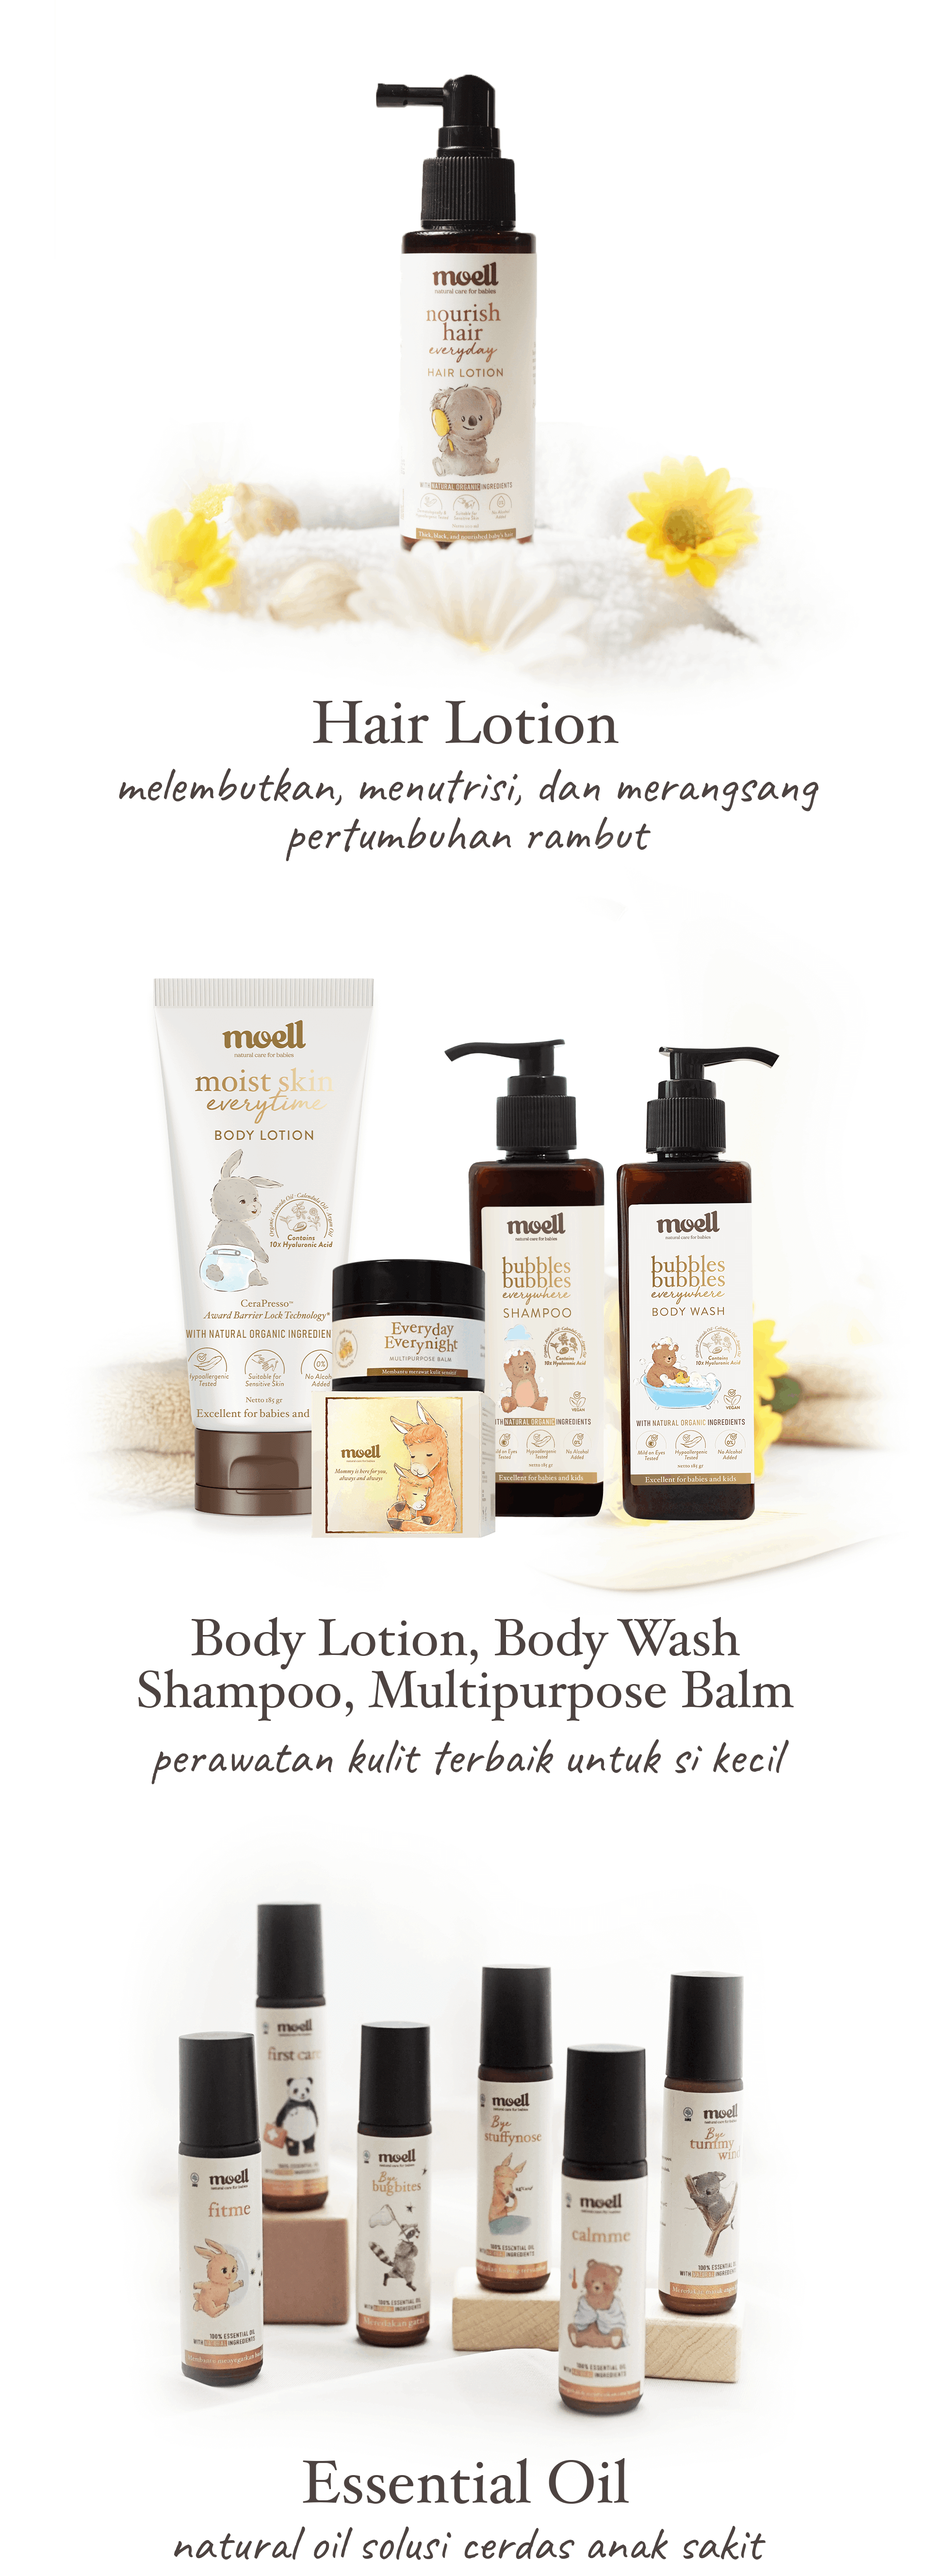
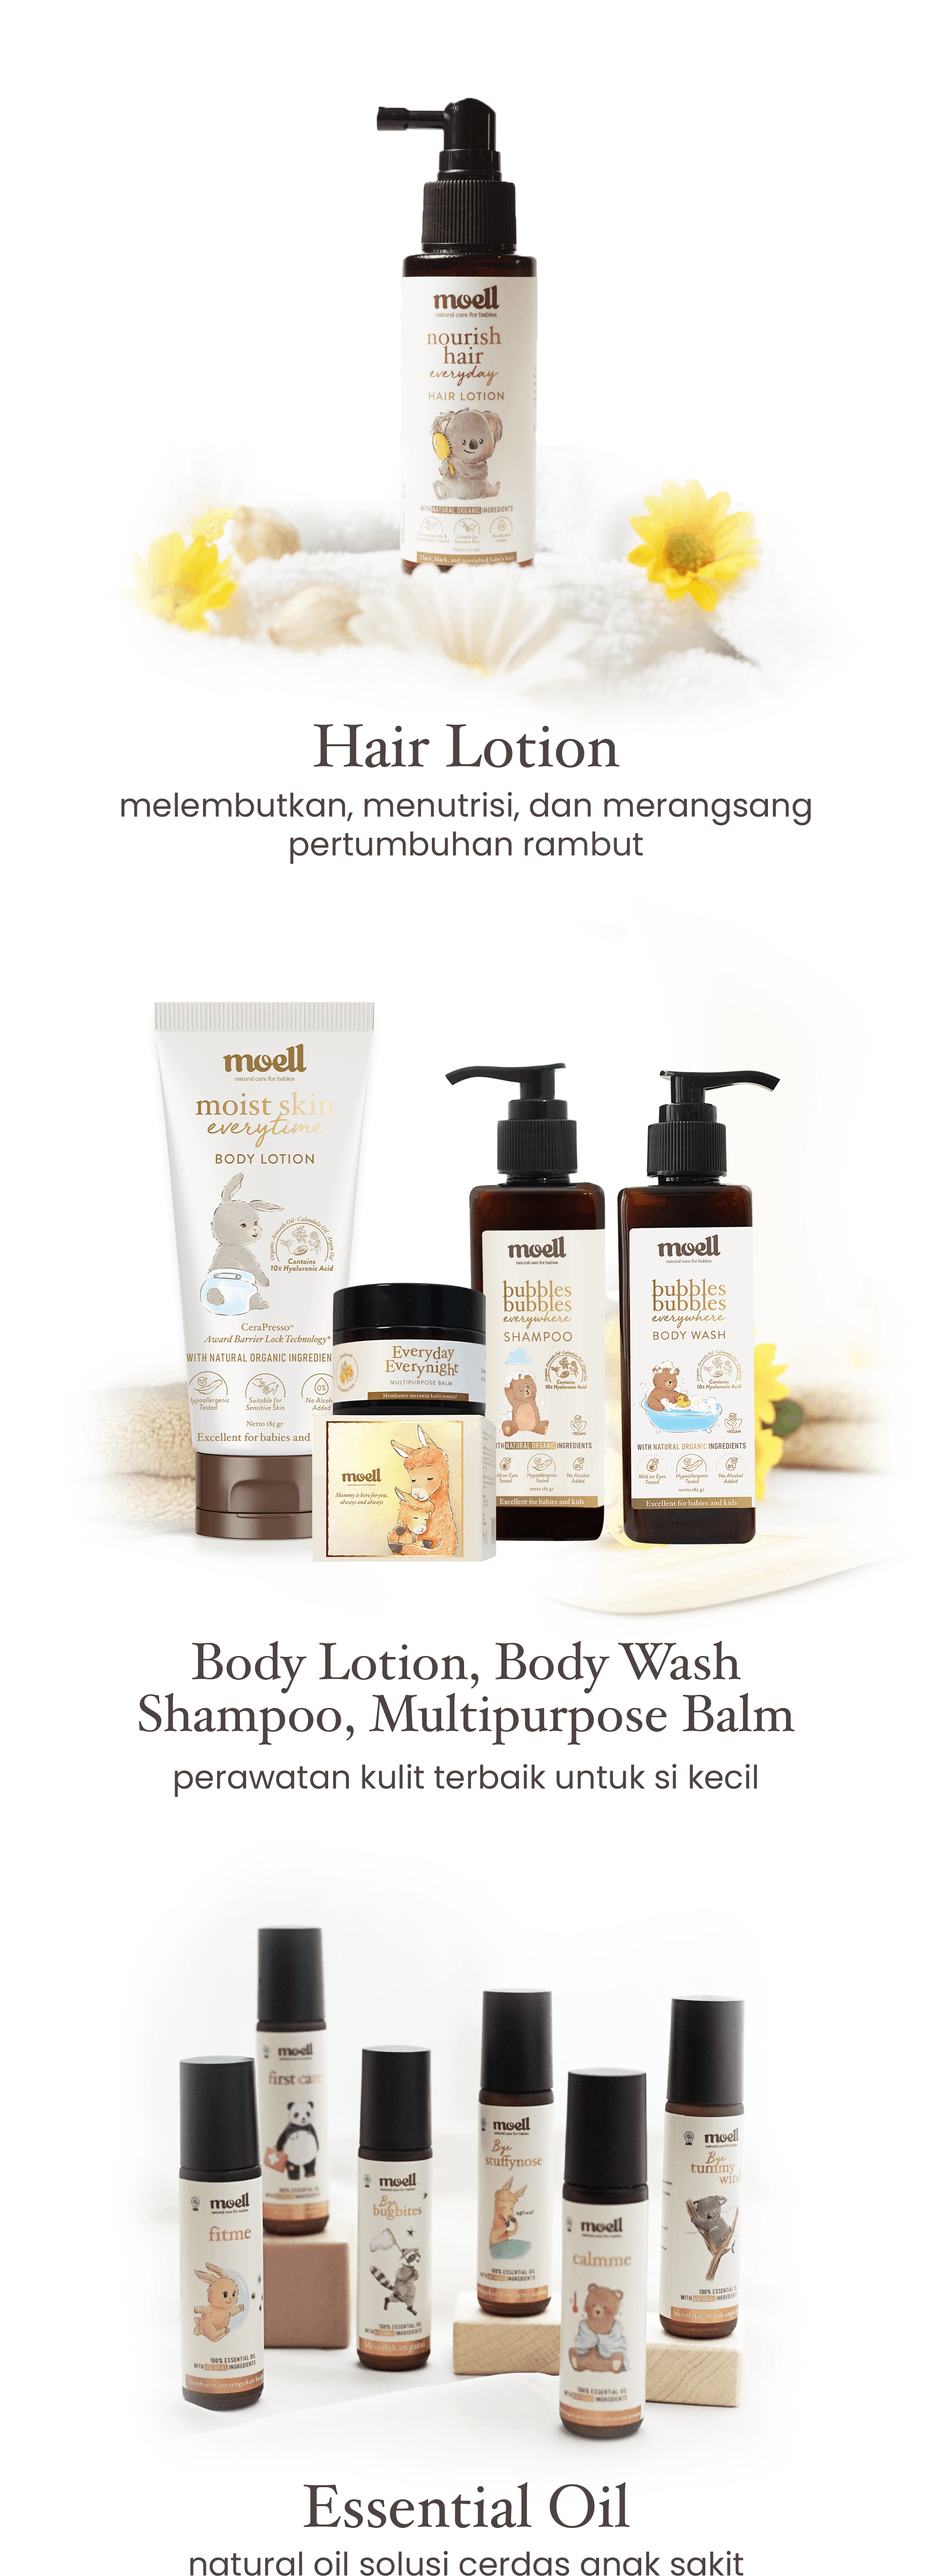
change layout preview

diff --git a/src/style.css b/src/style.css
@@ -124,14 +124,15 @@ body {
   font-family: 'Flamenco-Regular';
   width: 100%;
   overflow: hidden;
-  color: #6D5A4D;
+  /* color: #6D5A4D; */
+  color: #4d4341;
   /* place-items: center; */
   /* overflow-y: scroll; */
 }
 
 p {
   font-family: 'Flamenco-Regular';
-  color: #6D5A4D;
+  color: #4d4341;
 }
 
 .subtitle {
@@ -158,7 +159,7 @@ p {
 }
 
 a {
-  color: #6D5A4D;
+  color: #4d4341;
 }
 
 .banner-full {
@@ -277,14 +278,16 @@ a {
 }
 
 .imgProduct {
-  width: 100%;
+  width: 85%;
+  margin: 0 auto;
+  display: block;
 }
 
 .divider {
   height: 0.3rem;
   width: 90%;
   /* background: #FFEDDF; */
-  background: #9b5b4d;
+  background: #4d4341;
   margin: 0 auto;
 }
 
@@ -372,6 +375,9 @@ img {
 }
 
 @media only screen and (max-width: 480px) {
+  .imgProduct {
+    width: 93%;
+  }
 
   .font-poppins-head {
     font-size: 1.2rem;
